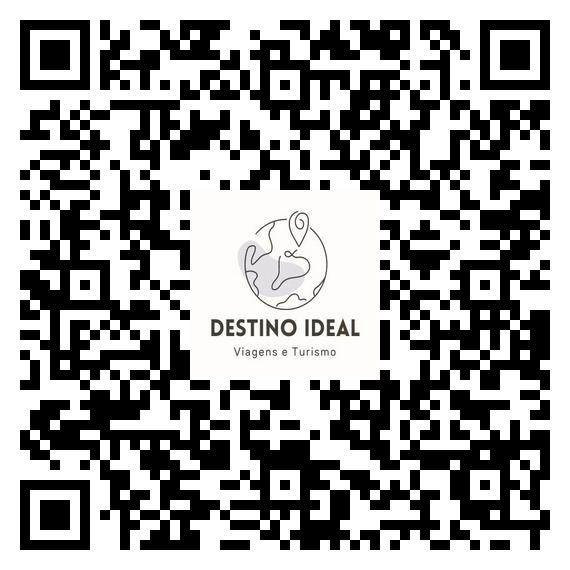
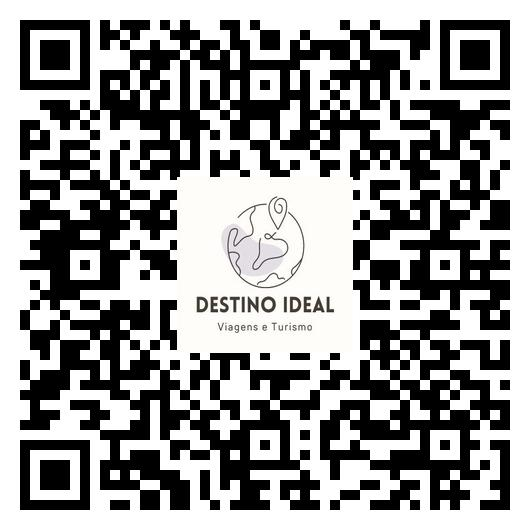
Ajuste no codigo python

diff --git a/qrcodetest.py b/qrcodetest.py
@@ -13,7 +13,7 @@ qr = qrcode.QRCode(
 # ou imagem que deseja incluir no QR Code
 
 # qr.add_data("https://www.instagram.com/destinoidealtur/")
-qr.add_data("https://felipedasilvamachado.github.io/qrHolografico/video/Destino%20Ideal%20Tour%20Navio.mp4")
+qr.add_data("https://felipedasilvamachado.github.io/qrHolografico/qrHolografico.html")
 qr.make(fit=True)
 
 # Criar a imagem do QR Code
